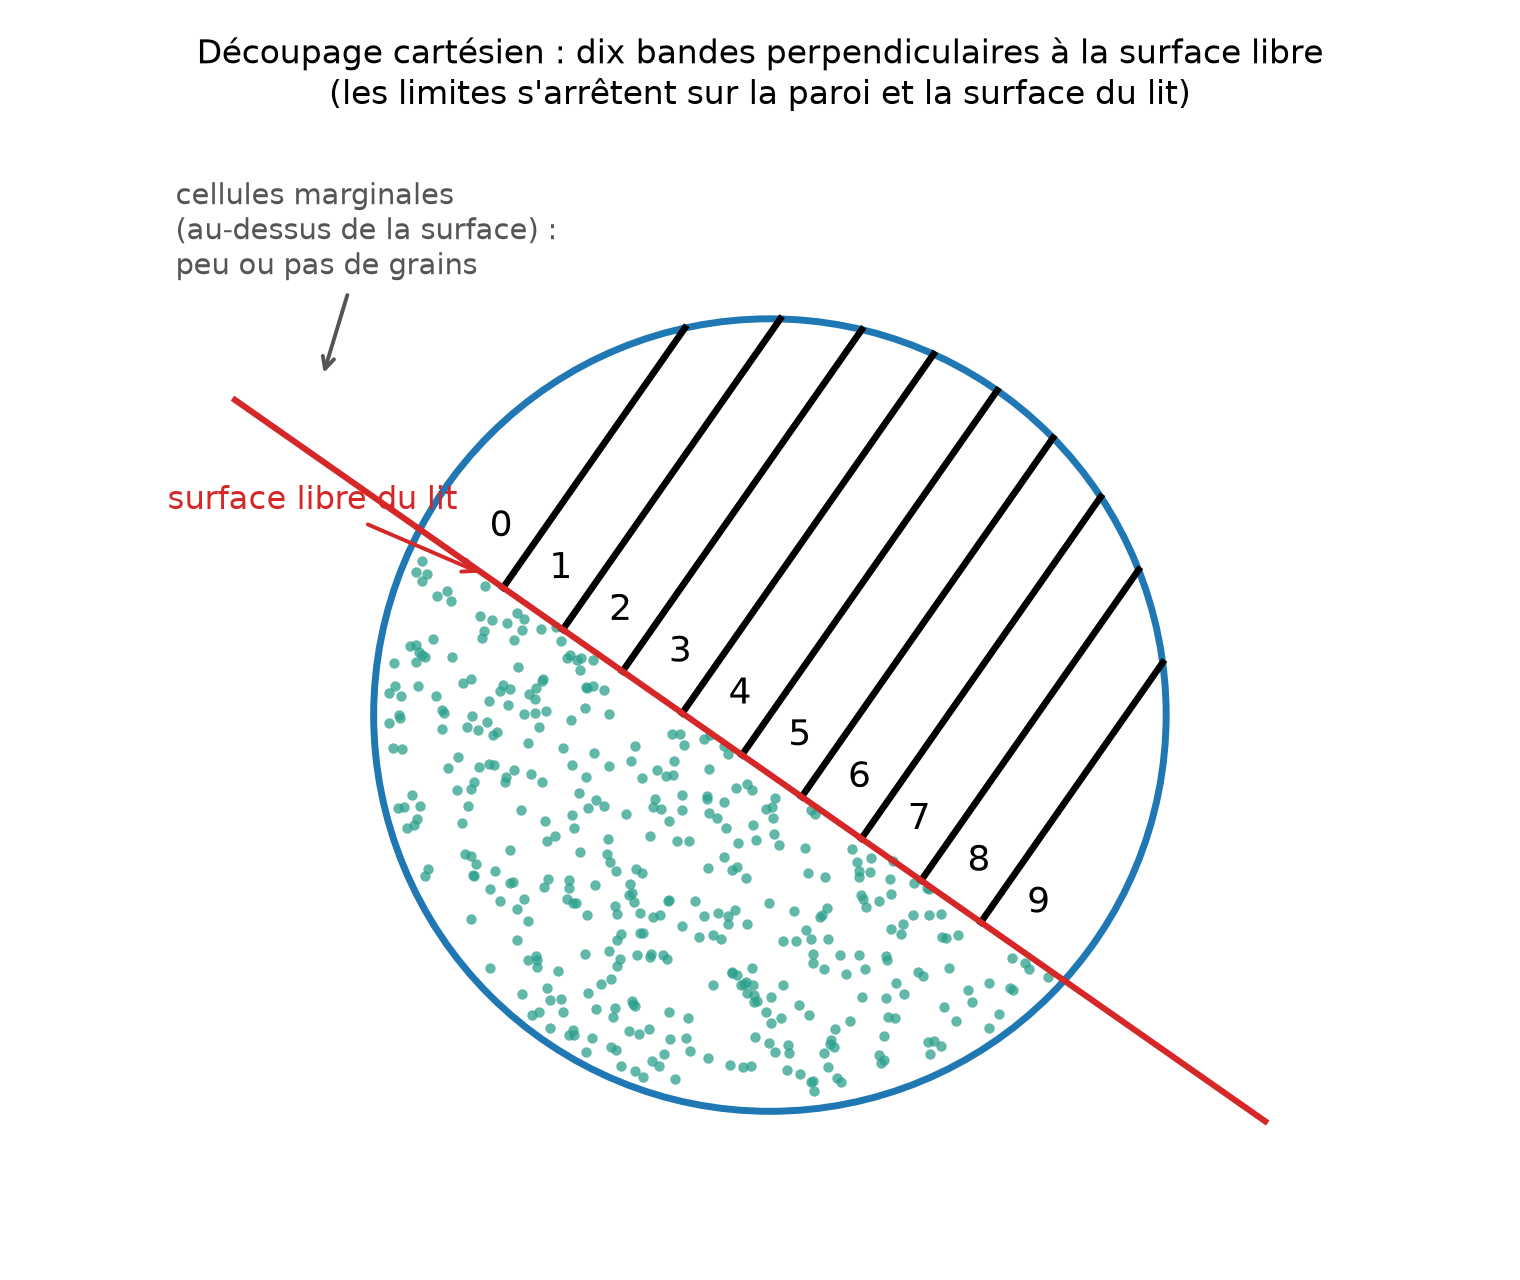
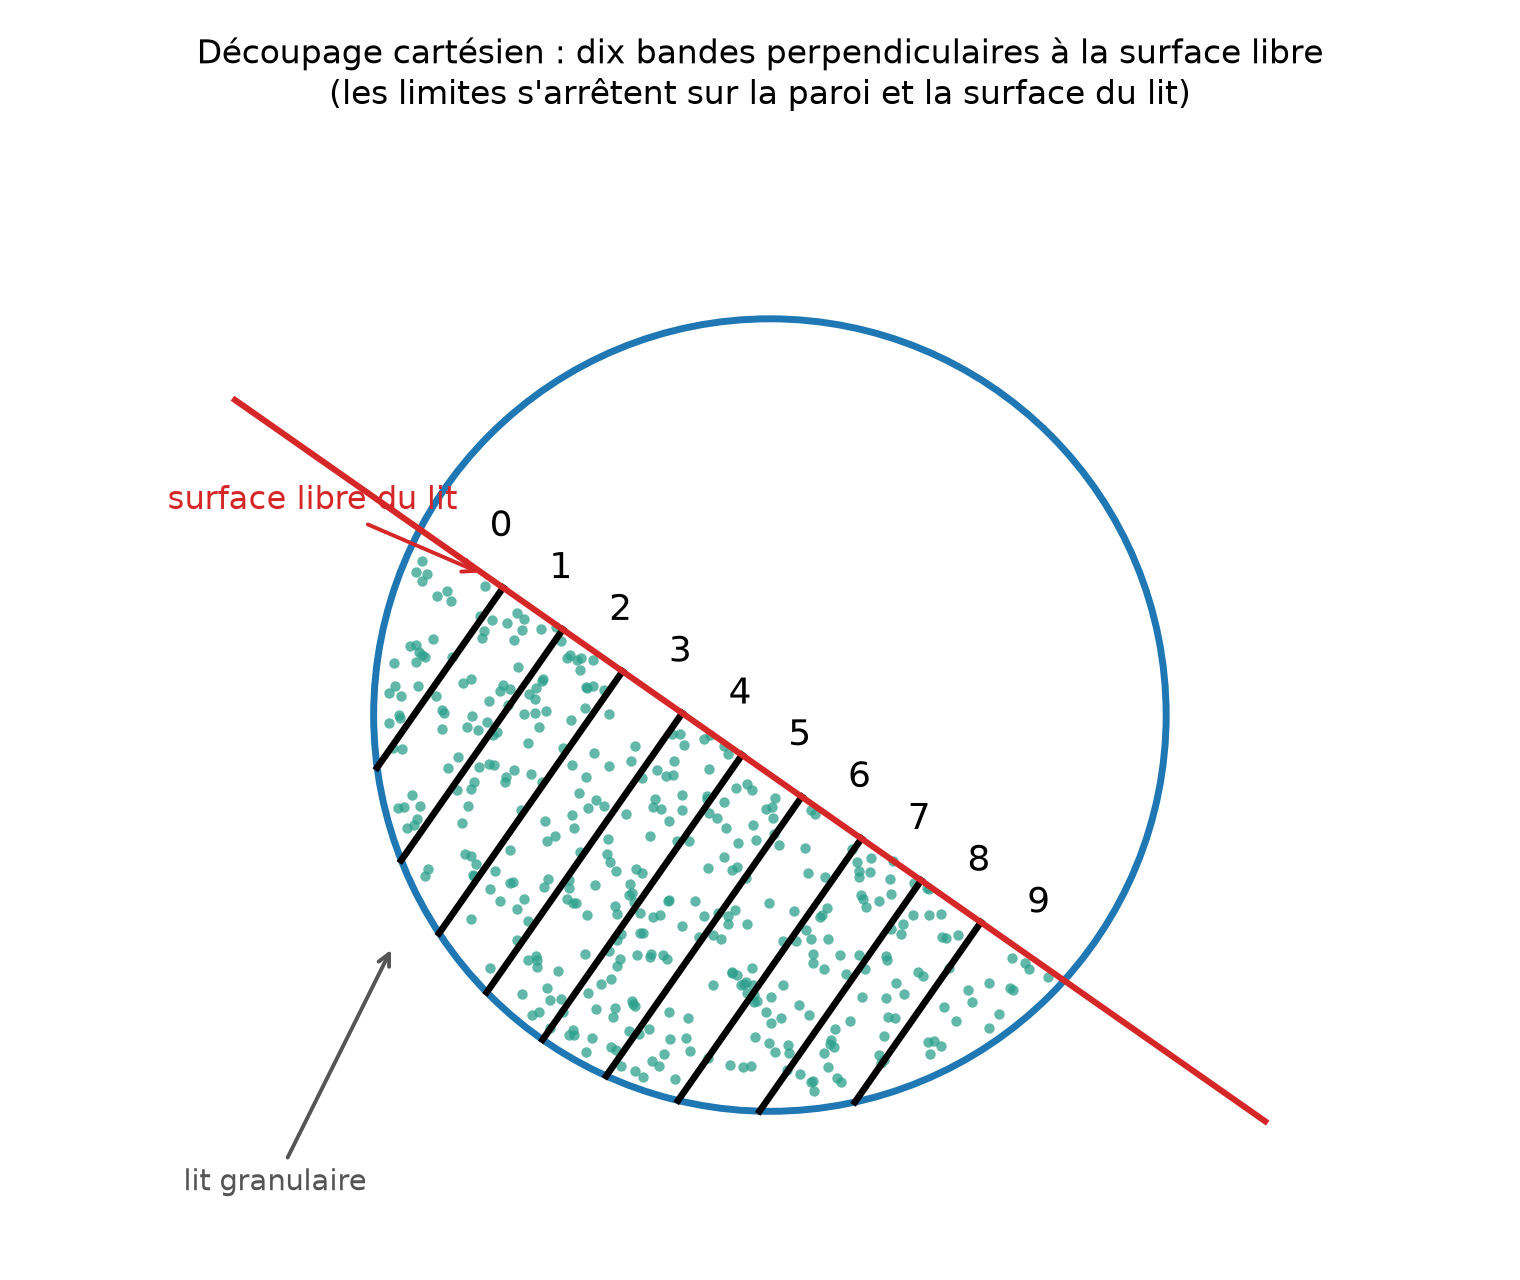
Corriger la zone du lit dans le schéma cartésien

diff --git a/postprocessing/figures_rapport_schemas.py b/postprocessing/figures_rapport_schemas.py
@@ -235,10 +235,11 @@ def schema_cartesien():
         surface_at_t0 = p0[1] + 0.15 * R + np.tan(a) * p0[0]
         surface_slope = normal[1] + np.tan(a) * normal[0]
         t_surface = -surface_at_t0 / surface_slope
+        # Le lit est la zone y - surface(x) <= 0.
         if surface_slope > 0:
-            t_min = max(t_min, t_surface)
-        else:
             t_max = min(t_max, t_surface)
+        else:
+            t_min = max(t_min, t_surface)
         if t_min < t_max:
             p1, p2 = p0 + t_min * normal, p0 + t_max * normal
             ax.plot([p1[0], p2[0]], [p1[1], p2[1]], "k-", lw=2.4, zorder=4)
@@ -256,8 +257,7 @@ def schema_cartesien():
     ax.annotate("surface libre du lit", xy=(-0.72, surf(-0.72)),
                 xytext=(-1.52, 0.52), fontsize=11.5, color=ROUGE,
                 arrowprops=dict(arrowstyle="->", color=ROUGE, lw=1.4))
-    ax.annotate("cellules marginales\n(au-dessus de la surface) :\npeu ou "
-                "pas de grains", xy=(-1.13, 0.85), xytext=(-1.50, 1.22),
+    ax.annotate("lit granulaire", xy=(-0.95, -0.58), xytext=(-1.48, -1.18),
                 fontsize=10.5, color=GRIS, ha="left", va="center",
                 arrowprops=dict(arrowstyle="->", color=GRIS, lw=1.4))
 
